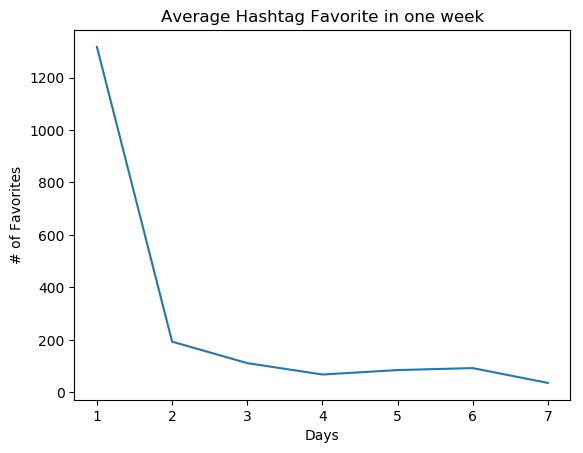
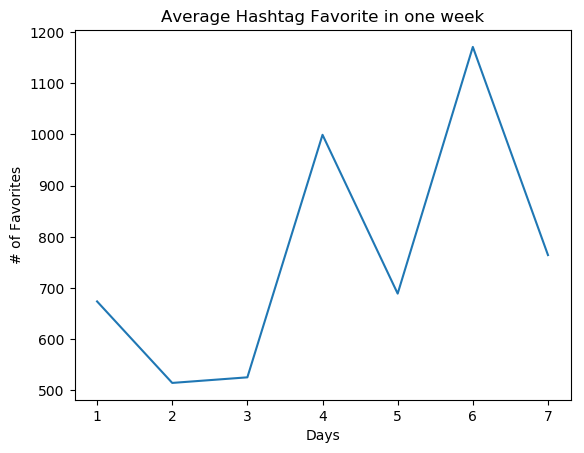
Added some more graphs

diff --git a/Code/charts.py b/Code/charts.py
@@ -1,5 +1,26 @@
+# -*- coding:utf-8 -*-
+
 ## Setup
 # import libraries
+import matplotlib
+# Uncomment this till - > there, if you dont care about seeing asian letters
+#matplotlib.use("pgf")
+#pgf_with_custom_preamble = {
+#    # "font.size": 18,
+#    "pgf.rcfonts": False,
+#    "text.usetex": True,
+#    "pgf.preamble": [
+#        # math setup:
+#        r"\usepackage{unicode-math}",
+#
+#        # fonts setup:
+#        r"\setmainfont{WenQuanYi Zen Hei}",
+#        r"\setsansfont{WenQuanYi Zen Hei}",
+#        r"\setmonofont{WenQuanYi Zen Hei Mono}",
+#    ],
+#}
+#matplotlib.rcParams.update(pgf_with_custom_preamble)
+# there
 import matplotlib.pyplot as plt
 import json as js
 import numpy as np
@@ -9,7 +30,7 @@ import pycountry as pc
 DAYS_PER_HASHTAG = 7
 FILE_NAME = "../Data/Partition0.2-data.json"
 IMAGE_OUTPUT = "../Data/Images/"
-ITERATION_LIMIT= 15
+ITERATION_LIMIT= 50
 DEBUG = True
 
 ## Helper Functions
@@ -43,6 +64,45 @@ def avg_follower(data, day):
 	line_follow[day]['total'] += sum(data['followers_count'])
 	line_follow[day]['count'] +=1
 
+def best_worst(data, hashtag):
+	total = 0
+	for day in range(DAYS_PER_HASHTAG):
+		total += data["day" + str(day)]['occurrences']
+
+	global best_hashtag, worst_hashtag, unpopular, popular
+
+	if not best_hashtag:
+		worst_hashtag = data
+		best = data
+		best_hashtag['total'] = total
+		worst_hashtag['total'] = total
+		empty = False
+
+	if total > best_hashtag['total']:
+		best_hashtag = data
+		best_hashtag['total'] = total
+		popular = hashtag
+
+	if total < worst_hashtag['total']:
+		worst_hashtag = data
+		worst_hashtag['total'] = total
+		unpopular = hashtag
+
+def avg_occurances_based_on_followers(data):
+	total = sum(data['followers_count'])
+	if data['occurrences'] > 5000:
+		bar_data[3]['total'] += total
+		bar_data[3]['count'] += 1
+	elif data['occurrences'] > 1000:
+		bar_data[2]['total'] += total
+		bar_data[2]['count'] += 1
+	elif data['occurrences'] > 100:
+		bar_data[1]['total'] += total
+		bar_data[1]['count'] += 1
+	else:
+		bar_data[0]['total'] += total
+		bar_data[0]['count'] += 1
+
 def cleanup():
 	# language clean up: flatten small slices into other
 	sumation = sum(pie_lang.values())
@@ -58,16 +118,29 @@ def cleanup():
 			language = pc.languages.get(alpha_2=key)
 			pie_lang[language.name] = pie_lang.pop(key, None)
 
-	# clean up avg
 	for day in range(DAYS_PER_HASHTAG):
+		# clean up avgs
 		line_avg_data["day " + str(day)] = line_occurance["day " + str(day)]['total'] / line_occurance["day " + str(day)]['count']
 		line_retweet_data["day " + str(day)] = line_retweets["day " + str(day)]['total'] / line_retweets["day " + str(day)]['count']
 		line_fav_data["day " + str(day)] = line_favs["day " + str(day)]['total'] / line_favs["day " + str(day)]['count']
 		line_follow_data["day " + str(day)] = line_follow["day " + str(day)]['total'] / line_follow["day " + str(day)]['count']
 
+		# Clean up best and worst
+		best_occurance.append(best_hashtag['day' + str(day)]['occurrences'])
+		worst_occurance.append(worst_hashtag['day' + str(day)]['occurrences'])
+
+	for bar_check in bar_data:
+		if bar_check['count'] == 0:
+			bar_check['count'] = 1
+	bar[0] = bar_data[0]['total'] / bar_data[0]['count']
+	bar[1] = bar_data[1]['total'] / bar_data[1]['count']
+	bar[2] = bar_data[2]['total'] / bar_data[2]['count']
+	bar[3] = bar_data[3]['total'] / bar_data[3]['count']
+
 # Read JSON file
-with open(FILE_NAME) as f:
+with open(FILE_NAME) as f: # Replace this will a list of all files, then append them
 	raw = js.load(f)
+	f.close()
 
 ## Calculate Data
 pie_lang = {"en": 0}
@@ -80,10 +153,22 @@ line_retweet_data = {}
 line_follow_data = {}
 line_fav_data = {}
 break_counter = 0
+best_occurance = []
+best_hashtag = {}
+worst_hashtag = {}
+worst_occurance = []
+popular = ""
+unpopular = ""
+bar_data = [{'count': 0, 'total': 0}, {'count': 0, 'total': 0}, {'count': 0, 'total': 0}, {'count': 0, 'total': 0}]
+bar = [0,0,0,0]
+
 
 for hashtag in raw:
 	if DEBUG:
 		print("Hashtag: " + hashtag)
+
+	# best/worst hash
+	best_worst(raw[hashtag], hashtag)
 
 	for day in range(DAYS_PER_HASHTAG):
 		# break counter
@@ -110,6 +195,9 @@ for hashtag in raw:
 
 		# avg number of followers per day
 		avg_follower(temp, "day " + str(day))
+
+		# avg follower count based on occurrences
+		avg_occurances_based_on_followers(temp)
 
 # clean up data
 cleanup()
@@ -156,6 +244,31 @@ plt.xlabel("Days")
 plt.ylabel("# of Followers")
 plt.plot([1,2,3,4,5,6,7], line_follow_data.values())
 plt.savefig(IMAGE_OUTPUT + 'line_followers.png', bbox_inches='tight')
+
+# Plot best against worst occurrence
+plt.figure()
+plt.title("Most popular vs Least popular Hashtag occurrences")
+plt.xlabel("Days")
+plt.ylabel("# of Occurrence")
+plt.plot([1,2,3,4,5,6,7], best_occurance, label=popular)
+plt.plot([1,2,3,4,5,6,7], worst_occurance, label=unpopular)
+plt.legend([popular, unpopular])
+plt.savefig(IMAGE_OUTPUT + 'best_worst_occurence.png', bbox_inches='tight')
+
+# Plot histogram of followers based on histogram
+ind = np.arange(4)
+plt.figure()
+plt.title("Avg Followers based on # of occurrences")
+plt.bar(ind, bar)
+plt.ylabel('Followers')
+plt.title('Avg Followers based on hashtag occurrences')
+plt.xticks(ind, ('0-99', '100-999', '1000-4,999', '5,000 >'))
+plt.savefig(IMAGE_OUTPUT + 'avg_followers_based_on_occurance.png', bbox_inches='tight')
+
+if DEBUG:
+	print("Popular: " + popular)
+	print("unpopular: " + unpopular)
+	print("Most occurrences: " + str(max(best_occurance)))
 
 # Show graphs
 plt.show()
